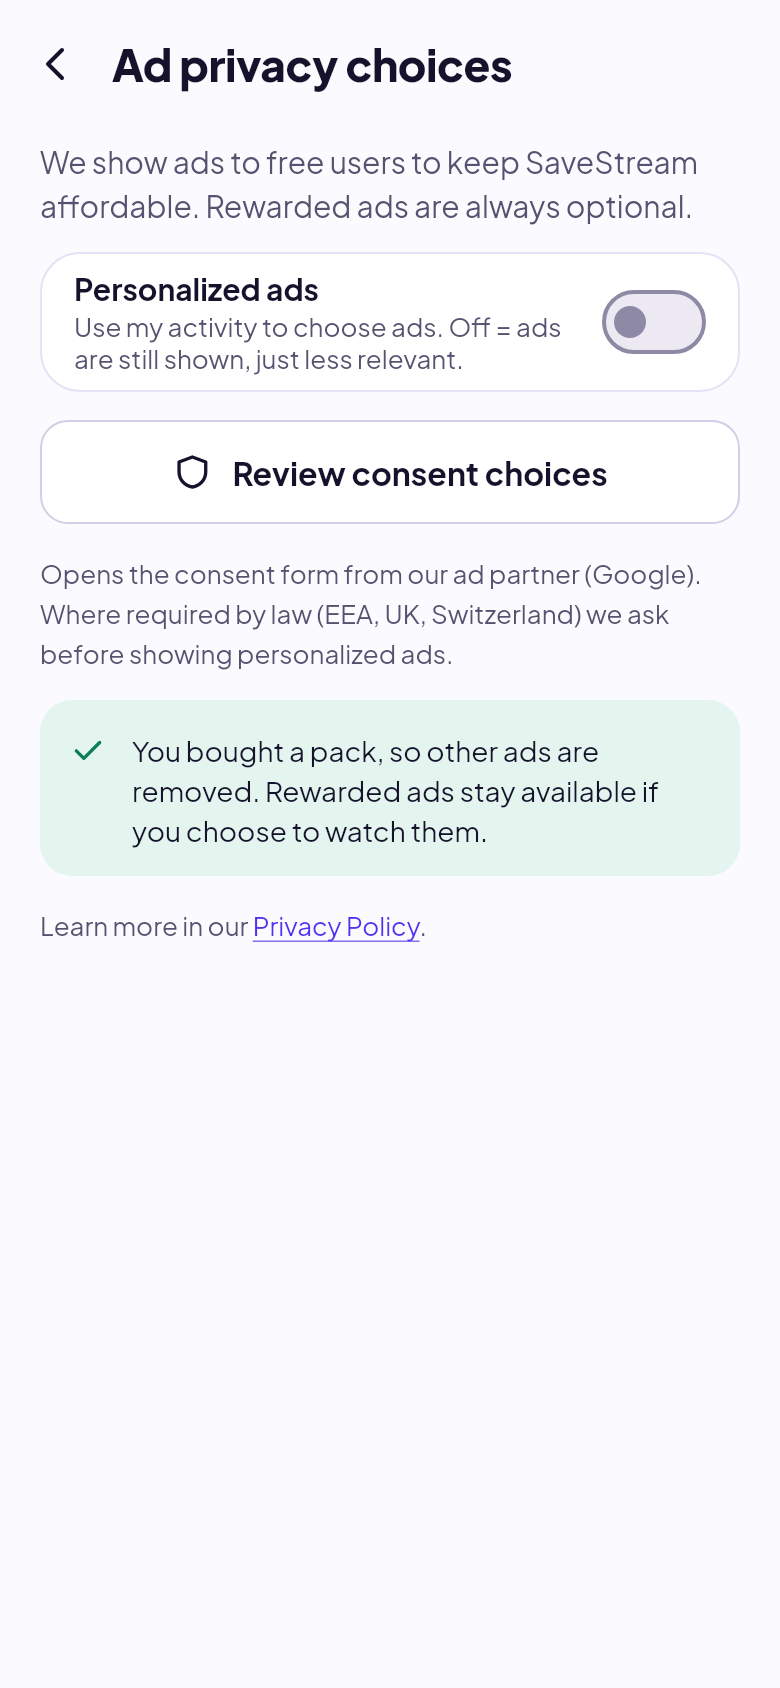
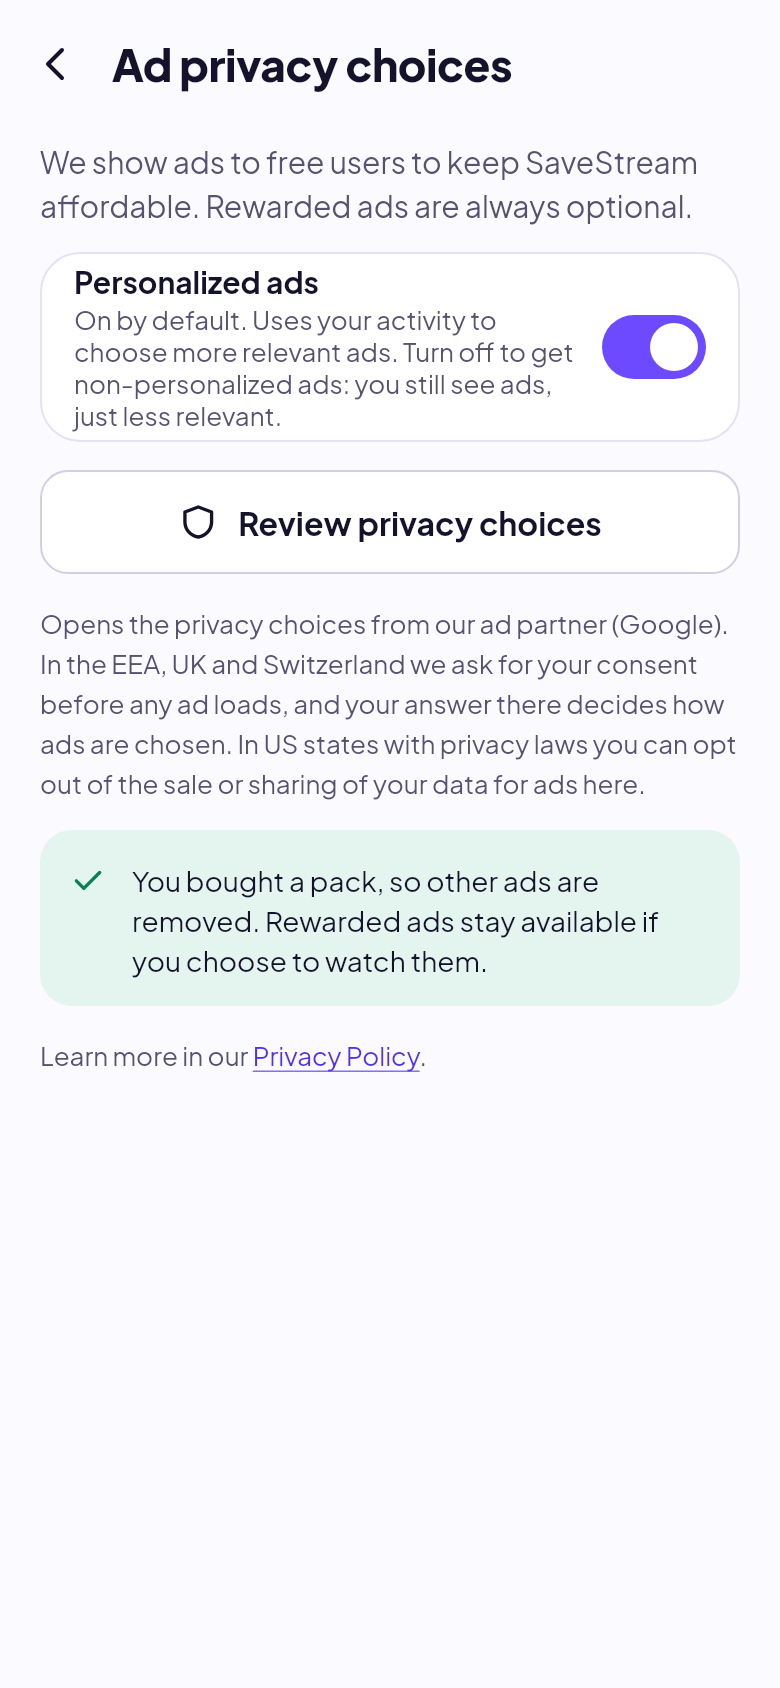
Mobile v2: personalized ads on by default, UMP consent and US-state options
Owner decision: personalized ads are on by default outside the EEA, UK
and Switzerland. There the UMP consent form is shown before any ad loads
and the user's UMP choices govern; the app adds no stricter flag. The
"Review privacy choices" button opens UMP's privacy options form
whenever privacyOptionsRequirementStatus is required, which also covers
the US state regulations message the owner publishes in AdMob. The
"Personalized ads" switch still turns them off (stored on the device,
non-personalized requests for rewarded and banner).

The banner waits for the stored choice before its first request and
reloads when the choice changes; the rewarded ad reads the loaded choice.
Ad privacy copy (EN, VI) no longer implies off by default. plan.md
records the decision (4.4, Q3), the AdMob US-states console step, and the
FCM Data safety row without the device name. AAdPrivacy screenshot
regenerated.

Claude-Session: https://claude.ai/code/session_01HhLQ3NXXvKMzXrvWPWzhSk

diff --git a/apps/mobile/test/screenshots/credits_screens_test.dart b/apps/mobile/test/screenshots/credits_screens_test.dart
@@ -13,6 +13,7 @@ import 'package:savestream_mobile/core/api/api_error.dart';
 import 'package:savestream_mobile/core/api/api_exception.dart';
 import 'package:savestream_mobile/core/config/app_config.dart';
 import 'package:savestream_mobile/core/config/app_environment.dart';
+import 'package:savestream_mobile/core/widgets/v2/ss_v2_widgets.dart';
 import 'package:savestream_mobile/features/channels/domain/models/watch_summary.dart';
 import 'package:savestream_mobile/features/channels/domain/repositories/watch_repository.dart';
 import 'package:savestream_mobile/features/credits/domain/credit_balance.dart';
@@ -57,6 +58,7 @@ class _Harness {
     RewardedAdOutcome adOutcome = RewardedAdOutcome.earned,
     this.rewardError,
     bool bannerConfigured = false,
+    bool privacyRequired = false,
   }) : store = FakePurchaseService(
          buyStatus: buyStatus,
          restorable: restorable,
@@ -64,6 +66,7 @@ class _Harness {
        ads = FakeAdsService(
          outcome: adOutcome,
          bannerConfigured: bannerConfigured,
+         privacyRequired: privacyRequired,
        );
 
   int minutes = 760;
@@ -156,7 +159,9 @@ void main() {
     // The ad carries the intent's SSV user id and custom data.
     expect(harness.ads.shown.single.userId, _userId);
     expect(harness.ads.shown.single.customData, 'rwd_1');
-    expect(harness.ads.shown.single.personalized, isFalse);
+    // Personalized ads are on by default (UMP still governs where it
+    // applies).
+    expect(harness.ads.shown.single.personalized, isTrue);
     expect(find.text('+5 minutes added to your balance'), findsOneWidget);
     expect(
       find.text('Optional · up to 6 a day · 3 of 6 used today'),
@@ -413,10 +418,51 @@ void main() {
     );
     await captureScreen(tester, 'AAdPrivacy');
 
-    await tester.tap(find.text('Review consent choices'));
+    await tester.tap(find.text('Review privacy choices'));
     await settle(tester);
     expect(harness.ads.consentChecks, 1);
     expect(harness.ads.privacyFormsShown, 0);
+    expect(
+      find.text(
+        'No privacy form is needed in your region. You can still turn '
+        'personalized ads off above.',
+      ),
+      findsOneWidget,
+    );
+    await tester.pump(const Duration(seconds: 5));
+  });
+
+  testWidgets('UMP privacy options open when UMP requires them', (
+    WidgetTester tester,
+  ) async {
+    // EEA/UK/Switzerland, or a US state with the AdMob US-states message.
+    final _Harness harness = _Harness(privacyRequired: true);
+    await pumpCredits(tester, harness, location: AppRoutes.adPrivacy);
+    await tester.tap(find.text('Review privacy choices'));
+    await settle(tester);
+    expect(harness.ads.privacyFormsShown, 1);
+  });
+
+  testWidgets('turning personalized ads off sends non-personalized requests', (
+    WidgetTester tester,
+  ) async {
+    final _Harness harness = _Harness();
+    await pumpCredits(tester, harness, location: AppRoutes.adPrivacy);
+    final Finder toggle = find.descendant(
+      of: find.byKey(const ValueKey<String>('ad-privacy-personalized')),
+      matching: find.byType(SsV2Switch),
+    );
+    expect(tester.widget<SsV2Switch>(toggle).value, isTrue);
+    await tester.tap(toggle);
+    await settle(tester);
+    expect(tester.widget<SsV2Switch>(toggle).value, isFalse);
+
+    GoRouter.of(
+      tester.element(find.byType(Scaffold).first),
+    ).go(AppRoutes.usage);
+    await settle(tester);
+    await tapKey(tester, 'credits-watch-ad');
+    expect(harness.ads.shown.single.personalized, isFalse);
     await tester.pump(const Duration(seconds: 5));
   });
 }

diff --git a/apps/mobile/lib/features/credits/presentation/credits_providers.dart b/apps/mobile/lib/features/credits/presentation/credits_providers.dart
@@ -91,8 +91,11 @@ final FutureProvider<Map<String, RecordingSummary>> ledgerRecordingsProvider =
 final Provider<DateTime Function()> creditsClockProvider =
     Provider<DateTime Function()>((ref) => DateTime.now);
 
-/// The "Personalized ads" choice on Ad privacy choices (off by default).
-/// Off sends non-personalized ad requests; UMP consent still applies.
+/// The "Personalized ads" choice on Ad privacy choices (on by default, the
+/// owner's decision). Off sends non-personalized ad requests (npa=1). On
+/// leaves the choice to Google's UMP: in the EEA, UK and Switzerland the
+/// consent form answer governs, and US-state opt-outs made in the UMP
+/// privacy options form apply too; the app adds no stricter flag of its own.
 abstract interface class AdPreferencesStore {
   Future<bool> loadPersonalized();
 
@@ -100,7 +103,9 @@ abstract interface class AdPreferencesStore {
 }
 
 final class MemoryAdPreferencesStore implements AdPreferencesStore {
-  bool _value = false;
+  MemoryAdPreferencesStore({bool personalized = true}) : _value = personalized;
+
+  bool _value;
 
   @override
   Future<bool> loadPersonalized() async => _value;
@@ -115,9 +120,9 @@ final class SharedPreferencesAdPreferencesStore implements AdPreferencesStore {
   @override
   Future<bool> loadPersonalized() async {
     try {
-      return (await SharedPreferences.getInstance()).getBool(_key) ?? false;
+      return (await SharedPreferences.getInstance()).getBool(_key) ?? true;
     } on Object {
-      return false;
+      return true;
     }
   }
 

diff --git a/apps/mobile/lib/features/credits/presentation/ad_banner_slot.dart b/apps/mobile/lib/features/credits/presentation/ad_banner_slot.dart
@@ -23,7 +23,10 @@ class AdBannerSlot extends ConsumerWidget {
     if (ads == null || !ads.showBanners) return const SizedBox.shrink();
     final adsService = ref.watch(adsServiceProvider);
     if (!adsService.bannerConfigured) return const SizedBox.shrink();
-    final bool personalized = ref.watch(personalizedAdsProvider).value ?? false;
+    // Wait for the stored choice so an opted-out user never gets one
+    // personalized request; a changed choice loads a new banner.
+    final bool? personalized = ref.watch(personalizedAdsProvider).value;
+    if (personalized == null) return const SizedBox.shrink();
     return Semantics(
       container: true,
       label: context.l10n.crAdLabel,
@@ -31,7 +34,10 @@ class AdBannerSlot extends ConsumerWidget {
         padding: const EdgeInsets.only(top: 4),
         child: DefaultTextStyle.merge(
           style: TextStyle(color: SsV2Palette.of(context).textMuted),
-          child: adsService.buildBanner(personalized: personalized),
+          child: KeyedSubtree(
+            key: ValueKey<bool>(personalized),
+            child: adsService.buildBanner(personalized: personalized),
+          ),
         ),
       ),
     );

diff --git a/apps/mobile/lib/platform/contracts/ads_service.dart b/apps/mobile/lib/platform/contracts/ads_service.dart
@@ -29,10 +29,15 @@ abstract interface class AdsService {
   /// Returns whether ads may be requested.
   Future<bool> ensureConsent();
 
-  /// The UMP privacy options entry point is required (consent was asked).
+  /// UMP says the privacy options entry point is required
+  /// (`ConsentInformation.privacyOptionsRequirementStatus == required`): the
+  /// user is in the EEA, UK or Switzerland, or in a US state with a privacy
+  /// law whose message is turned on in AdMob (Privacy & messaging › US state
+  /// regulations).
   Future<bool> privacyOptionsRequired();
 
-  /// Opens the UMP privacy options form so the user can change consent.
+  /// Opens the UMP privacy options form (`showPrivacyOptionsForm`) so the
+  /// user can change consent or opt out under US state laws.
   Future<void> showPrivacyOptions();
 
   /// Loads and shows one rewarded ad with AdMob server-side verification:

diff --git a/apps/mobile/lib/features/credits/presentation/ad_privacy_screen.dart b/apps/mobile/lib/features/credits/presentation/ad_privacy_screen.dart
@@ -57,7 +57,7 @@ class _AdPrivacyScreenState extends ConsumerState<AdPrivacyScreen> {
   Widget build(BuildContext context) {
     final AppLocalizations l10n = context.l10n;
     final SsV2Palette palette = SsV2Palette.of(context);
-    final bool personalized = ref.watch(personalizedAdsProvider).value ?? false;
+    final bool personalized = ref.watch(personalizedAdsProvider).value ?? true;
     final bool purchased =
         ref.watch(entitlementProvider).value?.hasPurchased ?? false;
     final TextStyle muted = TextStyle(

diff --git a/apps/mobile/lib/features/credits/presentation/rewarded_ad_controller.dart b/apps/mobile/lib/features/credits/presentation/rewarded_ad_controller.dart
@@ -103,7 +103,12 @@ class RewardedAdController extends Notifier<RewardState> {
       return;
     }
 
-    final bool personalized = ref.read(personalizedAdsProvider).value ?? false;
+    bool personalized;
+    try {
+      personalized = await ref.read(personalizedAdsProvider.future);
+    } on Object {
+      personalized = true;
+    }
     final RewardedAdOutcome outcome = await ref
         .read(adsServiceProvider)
         .showRewarded(

diff --git a/docs/mobile-v2/plan.md b/docs/mobile-v2/plan.md
@@ -345,7 +345,7 @@ Mỗi hạng mục một PR, CI xanh, QA duyệt, deploy backend bằng drain.
 | Tương tác trong app (kênh, bản ghi) (App activity) | Có | Không | Chức năng app | |
 | **Advertising ID** (Device or other IDs) | **Có** | **Có — Google AdMob** | **Quảng cáo; chống gian lận, bảo mật** | Do SDK Google Mobile Ads thu thập (rewarded + banner). Quyền `com.google.android.gms.permission.AD_ID` do SDK merge vào manifest (không `tools:node="remove"`). App không tự đọc hay gửi Advertising ID về server SaveStream |
 | **Device or other IDs**: install id của app (`device_id`, chuỗi ngẫu nhiên 128 bit `dev_…` sinh khi cài, lưu trong secure storage) | Có | Không | Chống gian lận, bảo mật | Gửi kèm `POST /v1/rewards` khi tạo lượt xem quảng cáo thưởng: cap 6 lượt/ngày/thiết bị, cảnh báo một máy có hơn 3 tài khoản. Cũng là khoá đăng ký thiết bị cho push. Xoá cùng tài khoản |
-| **Device or other IDs**: push token FCM | Có | Không (Google FCM là bên xử lý thay mặt chúng ta) | Chức năng app (thông báo) | Gửi qua `PUT /v1/me/devices/{id}` cùng tên máy (hãng + model), phiên bản app, ngôn ngữ. Xoá khi đăng xuất hoặc xoá tài khoản |
+| **Device or other IDs**: push token FCM | Có | Không (Google FCM là bên xử lý thay mặt chúng ta) | Chức năng app (thông báo) | Gửi qua `PUT /v1/me/devices/{id}` cùng nền tảng (android/ios), phiên bản app, ngôn ngữ. **Không gửi tên máy (hãng + model)**: trường `device_name` backend còn bắt buộc nên app gửi hằng số trung tính `Android`/`iOS` (backend sẽ cho phép bỏ trường này ở PR riêng). Xoá khi đăng xuất hoặc xoá tài khoản |
 | Video bản ghi (của kênh đã xác minh) (Photos and videos) | Có | Không | Chức năng app | |
 | Crash/analytics | Không (đã bỏ firebase-analytics) | — | — | |
 
@@ -373,8 +373,12 @@ Khai báo ngoài bảng:
 - [ ] Số thưởng đặt trong AdMob không cần đổi: server luôn cộng 5 phút cloud cho mỗi lượt SSV hợp lệ từ ad unit trong allowlist.
 - [ ] Rewarded: người dùng **tự bấm** "Watch ad · +5 min". Không quảng cáo bất ngờ, không xen ngang player.
 - [ ] **Banner (quyết định cuối của chủ sản phẩm):** một banner nhỏ, chỉ cho tài khoản **chưa từng mua** (`entitlement.ads.show_banners`), đặt **ở cuối Home và chỉ ở đó**. Không bao giờ có ở màn player, mua/thanh toán, xác minh kênh (và không ở Channels, Library). Không che nút. Mua bất kỳ gói nào thì tắt banner.
-- [ ] Công tắc "Personalized ads" (Settings › Ad privacy choices) **mặc định TẮT** (quảng cáo không cá nhân hoá) trong khi chờ chủ sản phẩm quyết. Công tắc lưu trên máy, áp cho cả rewarded và banner.
-- [ ] UMP consent cho EEA/UK/Thuỵ Sĩ trước khi tải quảng cáo. Có mục "Privacy options" trong Settings để mở lại form.
+- [ ] **Personalized ads (quyết định cuối của chủ sản phẩm), theo Google UMP:**
+  - **EEA/UK/Thuỵ Sĩ:** form đồng ý UMP hiện **trước khi tải bất kỳ quảng cáo nào** (`ensureConsent()` chạy trước mọi lần tải rewarded/banner). Nếu người dùng không đồng ý, quảng cáo không cá nhân hoá hoặc theo đúng lựa chọn trong UMP: app để SDK/UMP quyết, không thêm cờ chặt hơn.
+  - **Các bang Mỹ có luật quyền riêng tư:** app hỗ trợ thông điệp US states của UMP: khi `ConsentInformation.privacyOptionsRequirementStatus == required`, nút "Review privacy choices" (Settings › Ad privacy choices) gọi `ConsentForm.showPrivacyOptionsForm` để người dùng từ chối bán/chia sẻ dữ liệu.
+  - **Mọi nơi khác:** personalized ads **BẬT mặc định**.
+  - Người dùng luôn tắt được công tắc "Personalized ads" (Settings › Ad privacy choices). Công tắc lưu trên máy, áp cho cả rewarded và banner; tắt thì mọi request là non-personalized (`npa=1`).
+- [ ] **Chủ sản phẩm cấu hình trong AdMob console:** Privacy & messaging › **European regulations** (GDPR, đã có) và Privacy & messaging › **US state regulations**: tạo và publish thông điệp US states cho app Android `com.savestream.app`. App không cần đổi code khi bật/tắt thông điệp này.
 - [ ] Đối tượng **18+**, không nhắm trẻ em (Families policy không áp dụng). Content rating qua IARC.
 - [ ] Khai báo "Contains ads" = **Có** trong Store listing / App content (§4.2).
 - [x] `app-ads.txt` đã đăng tại `https://savestream.online/app-ads.txt` (PR #242).
@@ -425,7 +429,7 @@ Khai báo ngoài bảng:
 
 1. **Google Play Console**: tài khoản tổ chức hay cá nhân, ai là chủ? Nếu cá nhân và mới thì cần 12 tester × 14 ngày closed test.
 2. **Package name**: giữ `com.savestream.app` không? Bản v1 (có recorder) đã từng phát hành lên Play chưa, kể cả internal/closed?
-3. ~~**AdMob**: dùng lại app ID hay tạo mới? Có banner cho người chưa mua không?~~ **Đã quyết:** dùng lại AdMob v1 (`ca-app-pub-2078852906622512~2464439785`). Rewarded tự nguyện + **một banner** chỉ cho người chưa từng mua (`entitlement.ads.show_banners`), chỉ ở cuối Home, không bao giờ ở player, mua/thanh toán, xác minh (§4.4). Còn mở: mặc định của công tắc personalized ads (hiện **TẮT**).
+3. ~~**AdMob**: dùng lại app ID hay tạo mới? Có banner cho người chưa mua không?~~ **Đã quyết:** dùng lại AdMob v1 (`ca-app-pub-2078852906622512~2464439785`). Rewarded tự nguyện + **một banner** chỉ cho người chưa từng mua (`entitlement.ads.show_banners`), chỉ ở cuối Home, không bao giờ ở player, mua/thanh toán, xác minh (§4.4). **Đã quyết (personalized ads):** BẬT mặc định ngoài EEA/UK/Thuỵ Sĩ; ở EEA/UK/Thuỵ Sĩ hỏi đồng ý bằng UMP trước khi tải quảng cáo; hỗ trợ thông báo US states của UMP (chủ sản phẩm bật trong AdMob › Privacy & messaging › US state regulations); người dùng tắt được trong Settings › Ad privacy choices (§4.4).
 4. **Rewarded**: +5 phút, 6 lần/ngày. Reset theo **UTC** hay giờ địa phương? Có giới hạn tháng không?
 5. **Xác minh kênh**: đồng ý mã trong bio làm phương án chính và TikTok Login Kit (OAuth) là hướng dài hạn? Ân hạn 14 ngày cho kênh cũ trên web có ổn không? Đối tác thì admin xác minh tay?
 6. **Hoàn tiền khi credit đã tiêu**: cho số dư âm và chặn ghi, hay chỉ thu hồi phần còn lại?

diff --git a/docs/mobile-v2/screens/credits/README.md b/docs/mobile-v2/screens/credits/README.md
@@ -103,9 +103,12 @@ Recordings no longer in the first page of the list show "Recording" without the 
 Not completed) but no order id or price: payment orders store the token hash and the web list
 price, not Play's order id or the charged local price.
 
-**Ad privacy (AAdPrivacy).** "Personalized ads" is stored on the device and off by default (as
-drawn); off sends non-personalized ad requests. "Review consent choices" opens the UMP privacy
-options form when UMP requires it (EEA/UK/Switzerland); elsewhere a toast says no form is needed.
+**Ad privacy (AAdPrivacy).** "Personalized ads" is stored on the device and **on by default** (the
+owner's decision; the artboard draws it off); off sends non-personalized ad requests (npa=1). In
+the EEA, UK and Switzerland UMP's consent answer governs. "Review privacy choices" (drawn as
+"Review consent choices") opens the UMP privacy options form when UMP requires it (EEA/UK/
+Switzerland, or a US state once the US-states message is published in AdMob); elsewhere a toast
+says no form is needed.
 The purchased note shows only for accounts with `has_purchased`.
 
 **Banner (not drawn).** A 320×50 banner at the end of Home only when `ads.show_banners` (never
